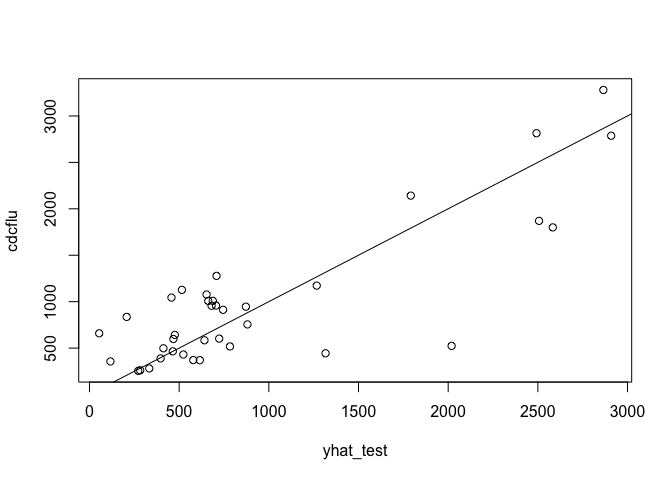
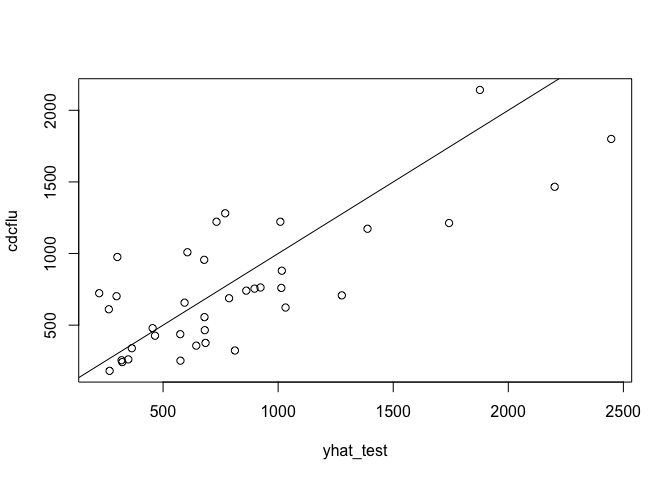
flu

diff --git a/flu/flu.md b/flu/flu.md
@@ -204,8 +204,8 @@ for "over the counter flu medicine" look to have a very similar seasonal
 pattern as actual flu cases.
 
 To illustrate the process of building and checking a predictive model,
-let's do three things: 1. Split the data into a training and testing
-set.  
+let's do three things:  
+1. Split the data into a training and testing set.  
 2. Fit a model to the training set.  
 3. Make predictions on the testing set and check our generalization
 error.
@@ -227,27 +227,29 @@ frame are in the training set. We store these rows in the `flu_train`
 data frame, and the remaining ones in the `flu_test` data frame.
 
 Now let's fit a simple model (with only three search terms) using the
-data in `flu_train` to make predictions:
+data in `flu_train`, and then use the data in `flu_test` to make
+predictions.
 
     lm1 = lm(cdcflu ~ flu.and.fever + over.the.counter.flu.medicine + treat.a.fever, data=flu_train)
     yhat_test = predict(lm1, newdata=flu_test)
 
-Our predictions are reasonably well correlated with the actual responses
-in the testing set:
+These are *out-of-sample* predictions, since we didn't use these data
+points to help fit the original model. These predictions are reasonably
+well correlated with the actual responses in the testing set:
 
     plot(cdcflu ~ yhat_test, data = flu_test)
     abline(0,1)
 
 ![](flu_files/figure-markdown_strict/unnamed-chunk-10-1.png)
 
-Finally, let's calculate the mean-squared prediction error (MSPE) that
-we make on the test set:
+Finally, let's calculate the mean-squared prediction error (MSPE) on the
+test set:
 
     MSPE =  mean( (yhat_test-flu_test$cdcflu)^2)
     RMSPE = sqrt(MSPE)
     RMSPE
 
-    ## [1] 439.4428
+    ## [1] 345.2796
 
 Your number will be slightly different from mine, since the train/test
 split is random.
@@ -292,16 +294,193 @@ to Monte Carlo variability:
 
     mean(out$result)
 
-    ## [1] 417.9038
+    ## [1] 411.2591
 
 ### Comparing with the full model
 
-Can we do better than this simple three-variable model? We'll use every
-search term in the data set. In R, the \`.' in a formula statement means
-"use every variable not otherwise named." This will give us quite a big
-model, with 87 parameters (an intercept + 86 search terms):
+Can we do better than this simple three-variable model? To see, we'll
+use every search term in the data set as a predictor. This will give us
+quite a big model, with 87 parameters (an intercept + 86 search terms).
+In the following model statement, the \`.' means "use every variable not
+otherwise named."
 
     lm_big = lm(cdcflu ~ ., data=flu_train)
+    coef(lm_big)
+
+    ##                              (Intercept) 
+    ##                               773.751306 
+    ##                          dangerous.fever 
+    ##                               -16.069917 
+    ##                   how.long.does.flu.last 
+    ##                               155.834269 
+    ##                           i.have.the.flu 
+    ##                              -136.647130 
+    ##                              fever.cough 
+    ##                               268.507169 
+    ##        what.to.eat.when.you.have.the.flu 
+    ##                                88.998717 
+    ##                         medicine.for.flu 
+    ##                               238.297889 
+    ## how.long.are.you.contagious.with.the.flu 
+    ##                              -129.091167 
+    ##                          viral.pneumonia 
+    ##                                34.402334 
+    ##                  how.to.get.over.the.flu 
+    ##                               192.427480 
+    ##                            treat.the.flu 
+    ##                               154.396828 
+    ##                         signs.of.the.flu 
+    ##                               243.679892 
+    ##                           flu.contagious 
+    ##                                -2.041536 
+    ##                          ear.thermometer 
+    ##                               -81.425067 
+    ##                     can.dogs.get.the.flu 
+    ##                                23.607846 
+    ##                   anas.barbariae.hepatis 
+    ##                               273.472211 
+    ##                         how.to.treat.flu 
+    ##                                85.119564 
+    ##                                 cure.flu 
+    ##                               192.643967 
+    ##                                treat.flu 
+    ##                               134.812447 
+    ##                              cold.or.flu 
+    ##                               -19.260745 
+    ##                     what.is.a.high.fever 
+    ##                               -20.911138 
+    ##                          oscillococcinum 
+    ##                               -35.449024 
+    ##                        treatment.for.flu 
+    ##                               146.871701 
+    ##                         remedies.for.flu 
+    ##                              -115.091641 
+    ##                how.to.get.rid.of.the.flu 
+    ##                                 8.665804 
+    ##                      bacterial.pneumonia 
+    ##                               -63.823735 
+    ##                      symptoms.of.the.flu 
+    ##                              -306.486844 
+    ##                          fever.and.cough 
+    ##                                37.932355 
+    ##                         braun.thermoscan 
+    ##                               -30.114003 
+    ##                 how.long.am.i.contagious 
+    ##                              -112.928445 
+    ##                    home.remedies.for.flu 
+    ##                              -227.243697 
+    ##                              cough.fever 
+    ##                              -173.720832 
+    ##                             cure.the.flu 
+    ##                              -200.293149 
+    ##                     low.body.temperature 
+    ##                              -189.700095 
+    ##                           contagious.flu 
+    ##                               232.587105 
+    ##                           headache.cough 
+    ##                                22.117613 
+    ##                            painful.cough 
+    ##                               -35.874104 
+    ##                           get.rid.of.flu 
+    ##                               -35.543430 
+    ##                              normal.body 
+    ##                               -38.055821 
+    ##                           cough.headache 
+    ##                               -17.375703 
+    ##                     how.to.fight.the.flu 
+    ##                                 4.785462 
+    ##                              flu.or.cold 
+    ##                              -260.844435 
+    ##            over.the.counter.flu.medicine 
+    ##                              -119.491463 
+    ##                            flu.and.fever 
+    ##                               -28.879033 
+    ##                         viral.bronchitis 
+    ##                                11.629557 
+    ##                               thermoscan 
+    ##                                91.225057 
+    ##                       taking.temperature 
+    ##                                35.916752 
+    ##                        influenza.a.and.b 
+    ##                                -9.335658 
+    ##                                fever.flu 
+    ##                               177.260550 
+    ##                         oral.thermometer 
+    ##                                58.623686 
+    ##                                  the.flu 
+    ##                                26.813551 
+    ##                     medicine.for.the.flu 
+    ##                                 2.749747 
+    ##                            treat.a.fever 
+    ##                              -230.198040 
+    ##                          cough.after.flu 
+    ##                              -120.611724 
+    ##                         acute.bronchitis 
+    ##                                35.275416 
+    ##         what.to.do.when.you.have.the.flu 
+    ##                               -55.238521 
+    ##                               bronchitis 
+    ##                                 6.178018 
+    ##                                extractum 
+    ##                               -21.064994 
+    ##                        best.flu.medicine 
+    ##                                69.606859 
+    ##              how.long.are.you.contagious 
+    ##                               -93.977675 
+    ##                           fever.reducers 
+    ##                               112.354988 
+    ##                         body.temperature 
+    ##                               -29.056927 
+    ##                             reduce.fever 
+    ##                               -56.796043 
+    ##                             flu.remedies 
+    ##                              -600.712699 
+    ##         anas.barbariae.hepatis.et.cordis 
+    ##                                48.389338 
+    ##                     remedies.for.the.flu 
+    ##                              -250.703573 
+    ##                       symptoms.pneumonia 
+    ##                               -31.261587 
+    ##                           viral.syndrome 
+    ##                               124.958869 
+    ##                         the.flu.symptoms 
+    ##                                 9.650402 
+    ##                        what.is.influenza 
+    ##                                65.749104 
+    ##                                pneumonia 
+    ##                               -46.313597 
+    ##                        fever.temperature 
+    ##                                30.248829 
+    ##                        child.temperature 
+    ##                                55.190036 
+    ##            incubation.period.for.the.flu 
+    ##                                61.528149 
+    ##                               high.fever 
+    ##                              -127.738847 
+    ##                            low.body.temp 
+    ##                               -71.379277 
+    ##                 how.long.does.fever.last 
+    ##                               260.629467 
+    ##                            is.it.the.flu 
+    ##                                81.349326 
+    ##                   what.to.do.for.the.flu 
+    ##                                23.353996 
+    ##                            fight.the.flu 
+    ##                               195.646005 
+    ##                   symptoms.of.bronchitis 
+    ##                               292.040884 
+    ##                     bacterial.bronchitis 
+    ##                                56.788870 
+    ##                              chest.cough 
+    ##                                79.704834 
+    ##                             fever.breaks 
+    ##                               -35.949067 
+    ##                          cough.and.fever 
+    ##                               -18.660017 
+    ##                           fever.too.high 
+    ##                                61.800394 
+    ##                       early.flu.symptoms 
+    ##                                -6.747565
 
 Let's use the testing set to compare the error of this big model with
 the small three-variable model:
@@ -320,7 +499,7 @@ the small three-variable model:
     # The result?
     c(RMSPE_small, RMSPE_big)
 
-    ## [1] 339.795 629.394
+    ## [1] 366.0329 574.5212
 
 This tells which model performed better on this particular testing set.
 But clearly it will be better to average over many different train/test
@@ -354,7 +533,7 @@ across all these different train/test splits:
     colMeans(out)
 
     ##       V1       V2 
-    ## 414.2833 521.3321
+    ## 408.1512 511.1926
 
 It looks as though the big model has *worse* generalization error than
 the simple three-variable model --- a classic example of overfitting. In
@@ -450,7 +629,7 @@ And the result?
 
     RMSPE_step
 
-    ## [1] 219.6537
+    ## [1] 252.5198
 
 Again, your number will be different because of Monte Carlo variability.
 
@@ -486,7 +665,7 @@ to what we get from the small and big models on the same set of splits:
     colMeans(out)
 
     ##       V1       V2       V3 
-    ## 413.2883 517.2954 286.8966
+    ## 415.8322 519.5109 286.9927
 
 Your numbers will be a bit different, but on average, you should notice
 that the stepwise model (the third entry) significantly outperforms both
